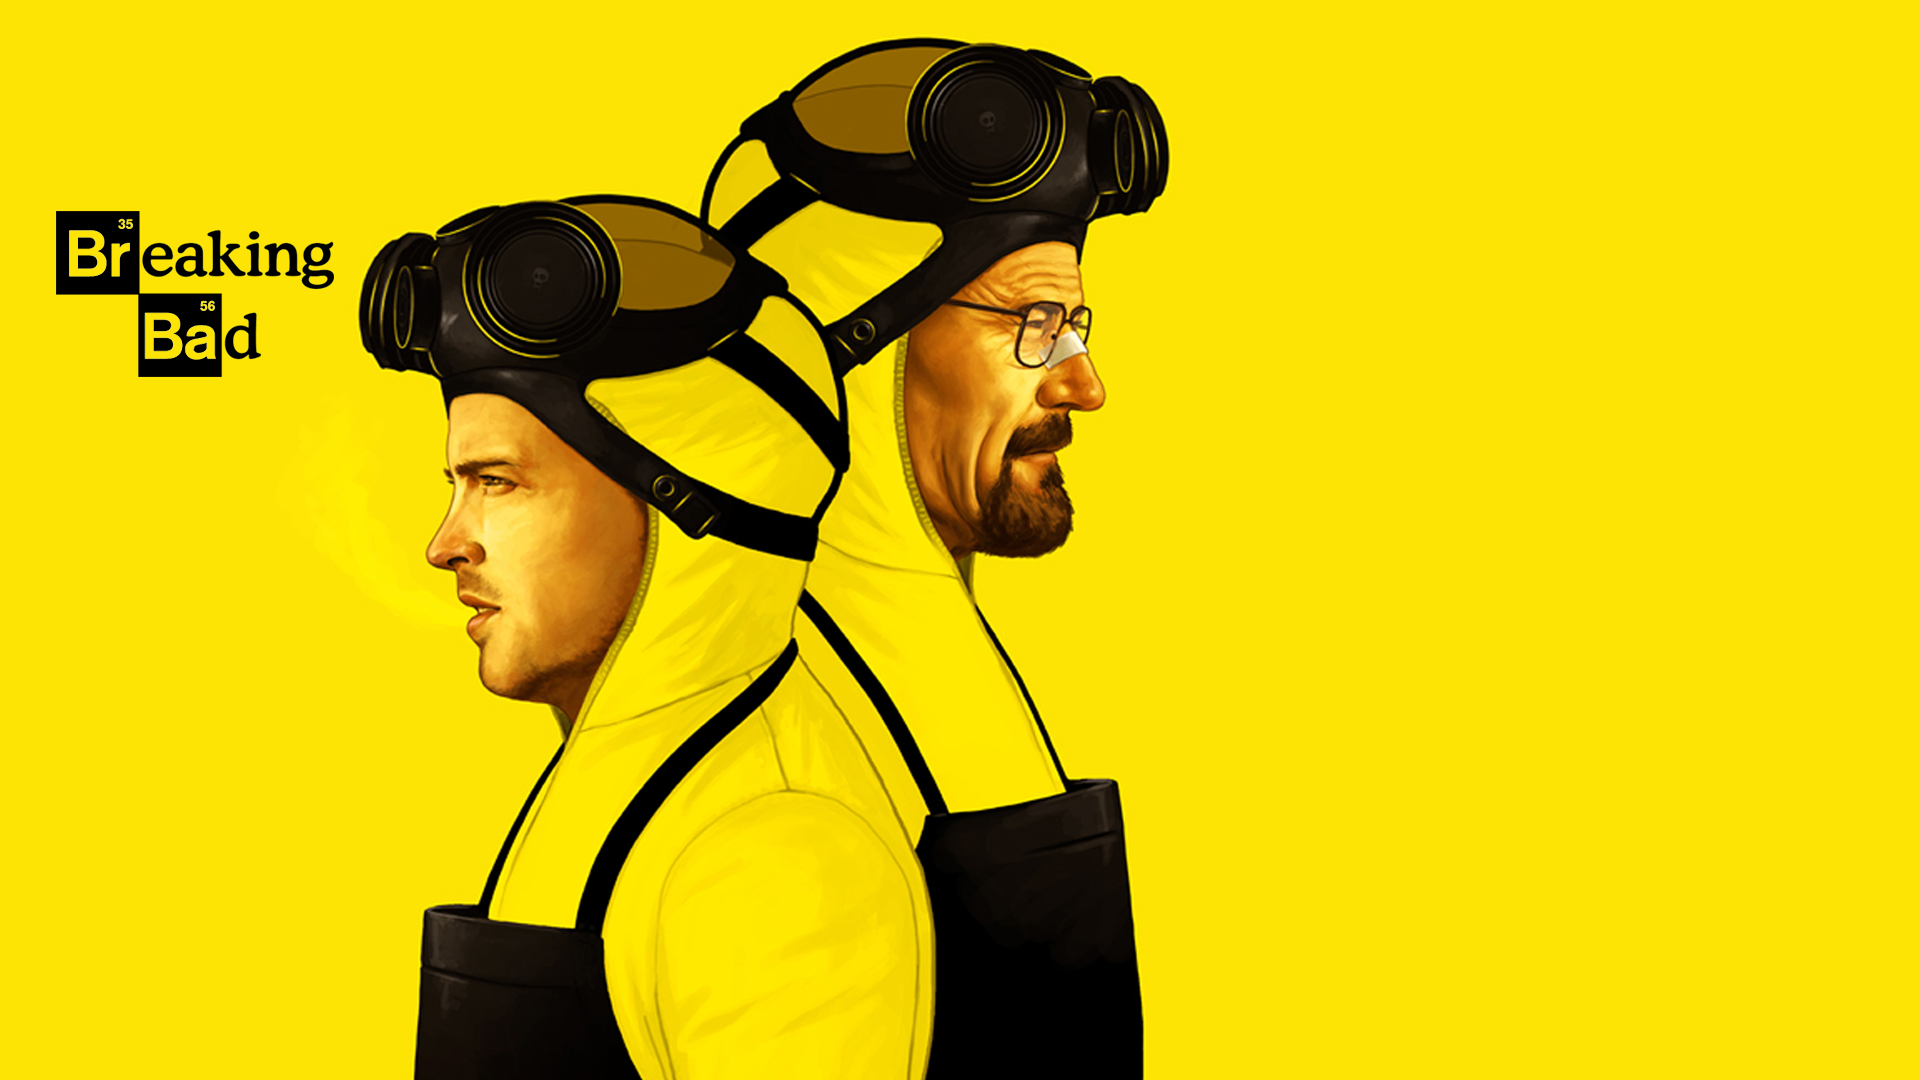
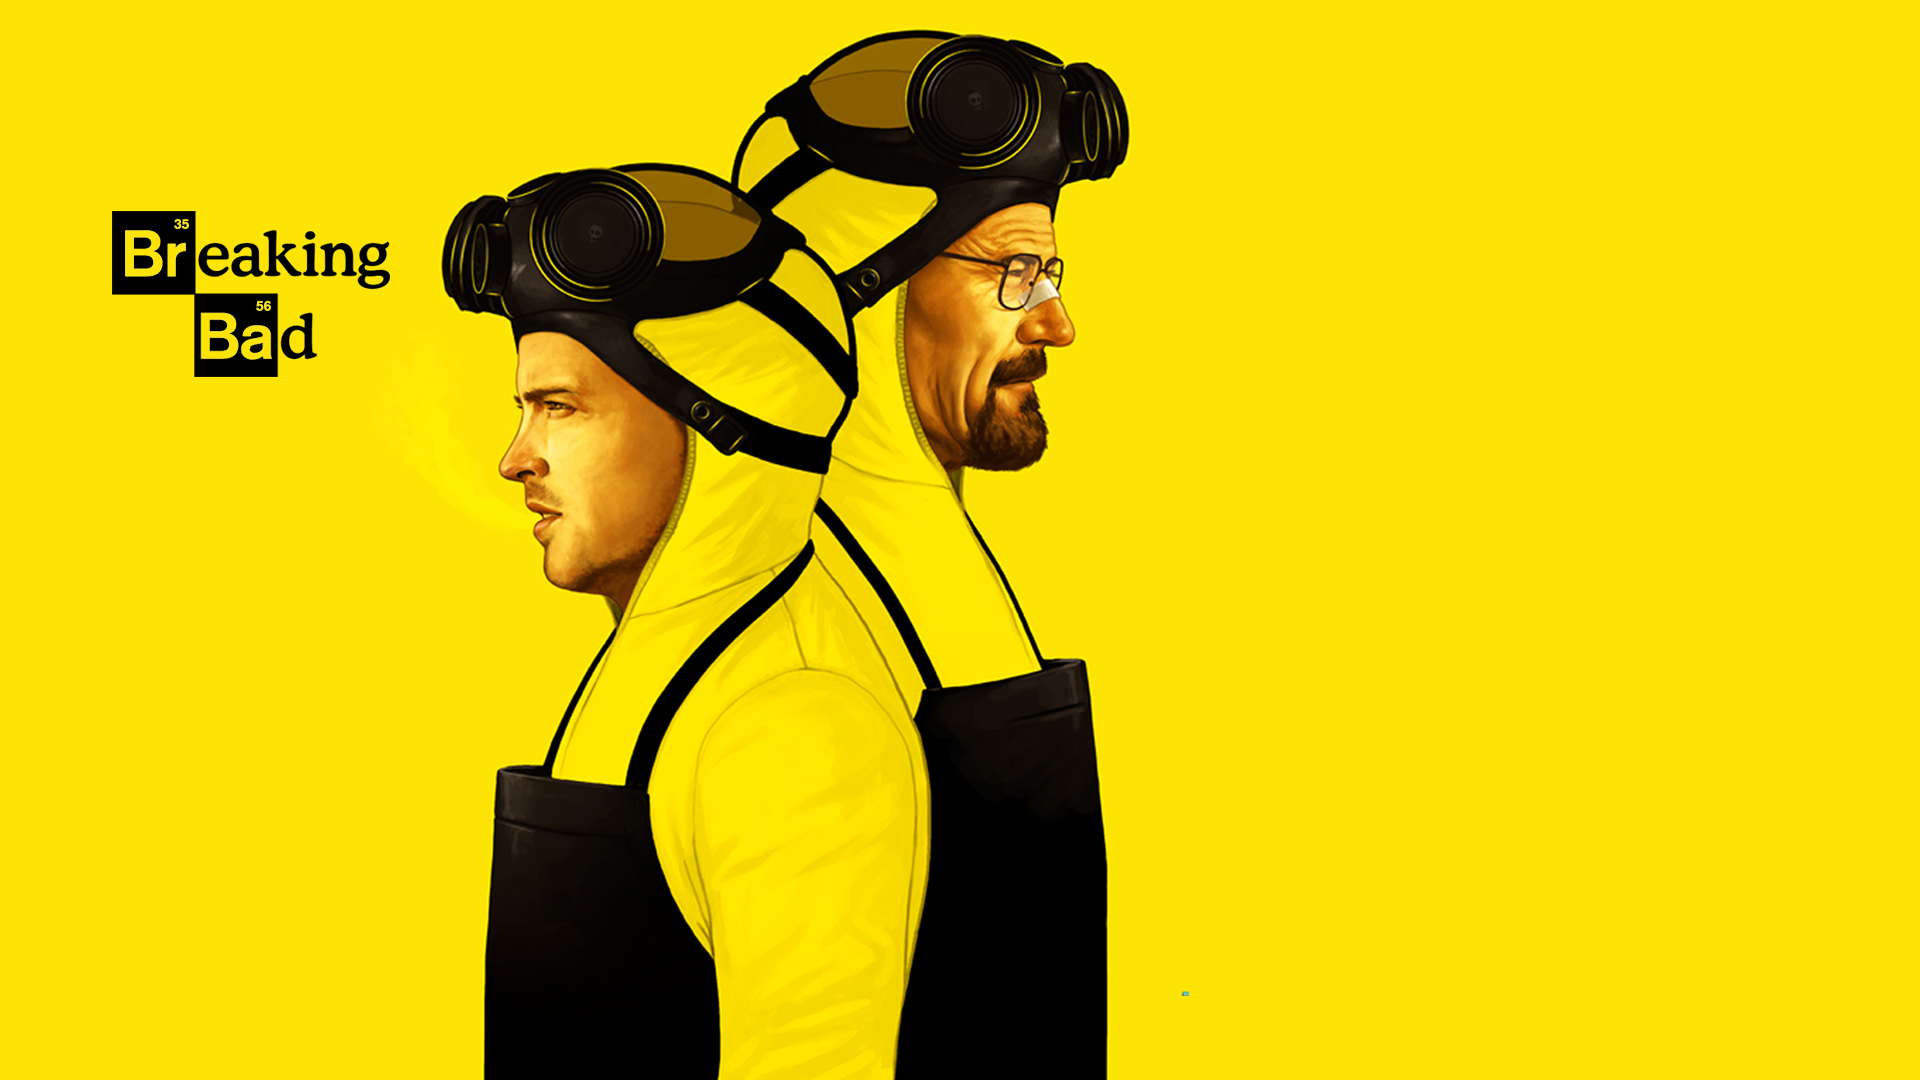
minor changes on breaking bad

Changed region(s): [[0.0312, 0.0306, 0.625, 1.0], [0.4062, 0.7028, 0.4375, 0.7333]]

diff --git a/wp-content/themes/basic/style.css b/wp-content/themes/basic/style.css
@@ -191,7 +191,7 @@ body {
 }
 
 .bbnav {
-  position: absolute; left:64px;top:320px; 
+  position: absolute; left:104px;top:320px; 
   font-size: 47px;
   padding: 5px;
   font-family: 'Bangers', cursive;
@@ -261,7 +261,7 @@ body {
 }
 
 .clipspostpost h6 {
-  position:absolute; left:1000px; top:210px;
+  position:absolute; left:1015px; top:210px;
   width: 235px;
   line-height: 2.5em;
   font-family: 'quantico', cursive;
@@ -283,7 +283,7 @@ code, kbd, pre, samp {
 }
 
 .parodypostpost h6 {
-  position:absolute; left:920px; top:210px;
+  position:absolute; left:930px; top:210px;
   width: 390px;
   line-height: 2.5em;
   font-family: 'quantico', cursive;
